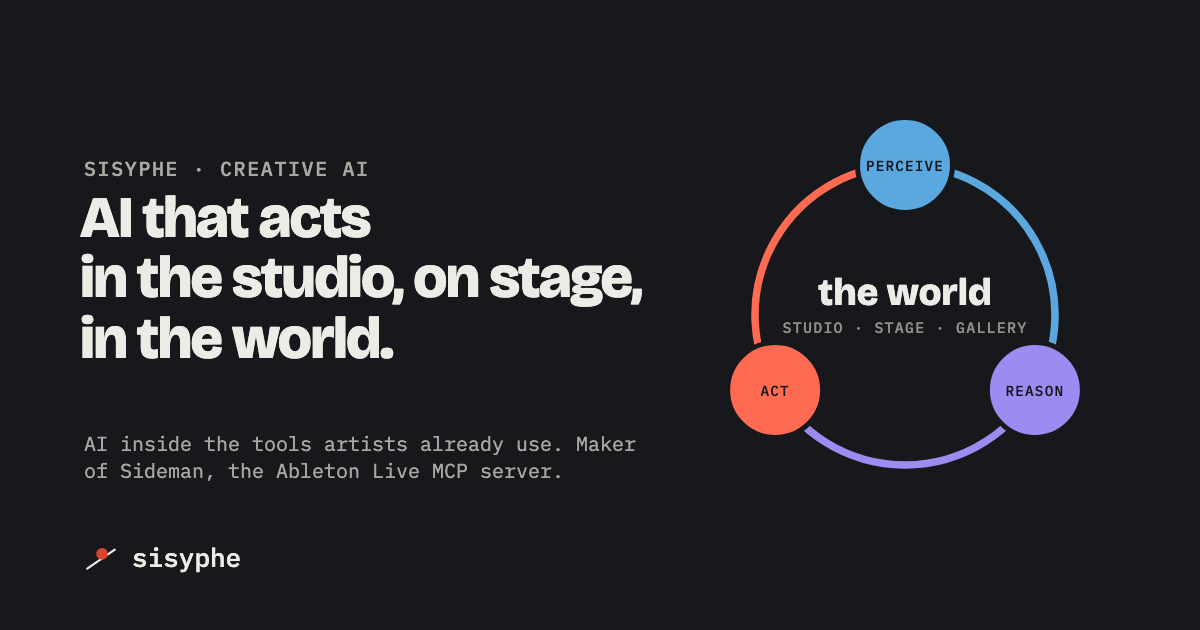
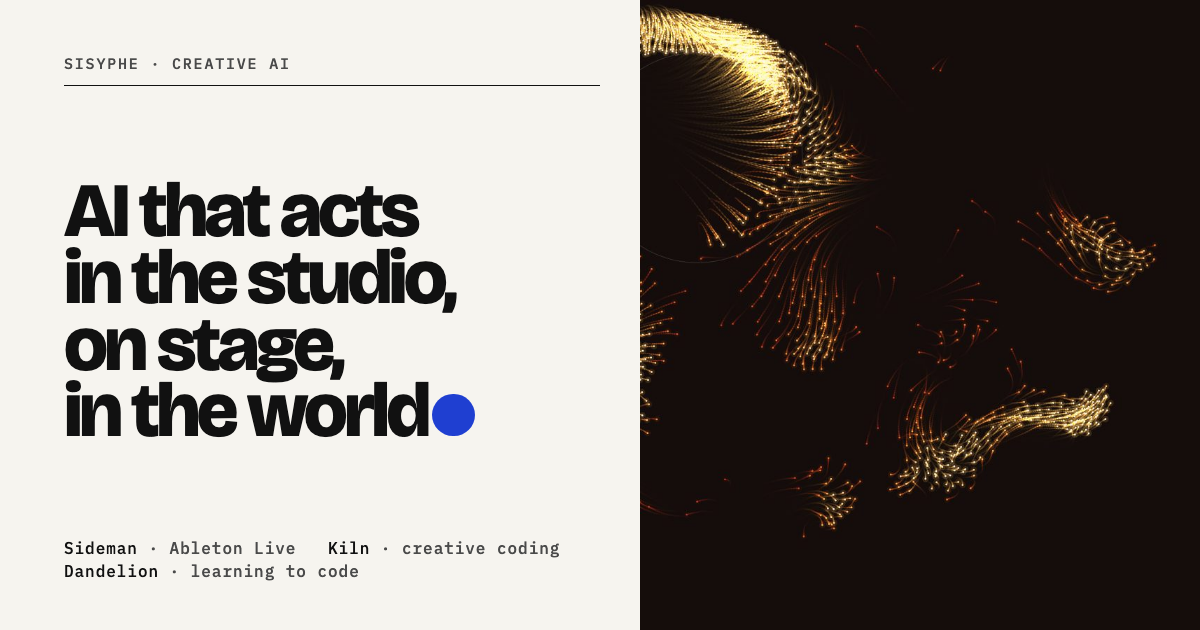
Home: closer without the rock metaphor, no client work, review fixes
- Closer: 'You keep the part that needs you.' The rock image needed the
  myth to make sense.
- Client work leaves the home page (no client permission asked); Kiln's
  flock spans the wall, Sideman and Dandelion follow at equal size.
- Review: home rules scoped under .gallery-home; dark-theme accent lifted
  to #3B5BFF (3.5:1) and focus rings use --accent-ink; a Pause button for
  the loop (WCAG 2.2.2); playback starts from script only, so no-JS and
  reduced motion show the poster; Bootstrap's .visually-hidden replaces
  a local .sr-only; share image redone on paper with the three products.

diff --git a/theme.scss b/theme.scss
@@ -307,7 +307,6 @@ div.sourceCode, pre.sourceCode { background: var(--panel) !important; }
 // ---------------------------------------------------------------------------
 // Home, concept 2: "gallery wall". Work first, catalogue devices, one Klein-blue rock.
 // ---------------------------------------------------------------------------
-.sr-only { position: absolute; width: 1px; height: 1px; padding: 0; margin: -1px; overflow: hidden; clip: rect(0, 0, 0, 0); white-space: nowrap; border: 0; }
 .gallery-home {
   #quarto-content { display: block; padding-left: clamp(16px, 3vw, 40px); padding-right: clamp(16px, 3vw, 40px); }
   #quarto-content > main.content { grid-column: 1 / -1; width: 100%; max-width: 1360px; margin: 0 auto; min-width: 0; }
@@ -319,110 +318,108 @@ $gw-head: $headings-font-family;
 @keyframes gw-roll { from { transform: translateX(-2.4em) rotate(-200deg); opacity: 0; } 30% { opacity: 1; } to { transform: none; opacity: 1; } }
 @keyframes gw-fade { from { opacity: 0; transform: translateY(18px); } to { opacity: 1; transform: none; } }
 
-// Masthead: index line, a headline set to the measure of the wall, the lede tucked under its short last line.
-.mast { display: grid; grid-template-columns: repeat(12, minmax(0, 1fr)); column-gap: clamp(12px, 1.8vw, 24px); padding: clamp(0.4rem, 1.2vw, 1rem) 0 clamp(1.6rem, 3vw, 2.4rem); }
-.mast-index { grid-column: 1 / -1; display: flex; justify-content: space-between; gap: 1rem; flex-wrap: wrap;
-  font-family: $gw-mono; font-size: 0.74rem; letter-spacing: 0.1em; text-transform: uppercase; color: var(--ink-2);
-  padding-bottom: 0.7rem; border-bottom: 1px solid var(--ink); margin-bottom: clamp(1.2rem, 2.6vw, 2.2rem);
-  .mast-idx { color: var(--ink-3); a { color: var(--ink); text-decoration: none; margin-left: 1.1em; &:hover { color: var(--accent-ink); } } } }
-.mast-h1 { grid-column: 1 / -1; grid-row: 2; margin: 0; font-weight: 800; letter-spacing: -0.05em; line-height: 0.86;
-  font-size: clamp(2.5rem, calc((100vw - 2 * clamp(16px, 3vw, 40px)) / 8.85), 9.7rem); text-wrap: initial; max-width: none;
-  .ln { display: block; animation: gw-rise 0.9s cubic-bezier(.2,.7,.2,1) both; }
-  .ln:nth-child(2) { animation-delay: 0.08s; } .ln:nth-child(3) { animation-delay: 0.16s; }
-  .rock { display: inline-block; width: 0.56em; height: 0.56em; border-radius: 50%; background: var(--accent); margin-left: 0.07em; vertical-align: baseline;
-    animation: gw-roll 1.5s cubic-bezier(.16,.8,.24,1) 0.35s both; } }
-.mast-lede { grid-column: 9 / -1; grid-row: 2; align-self: start; position: relative; padding-top: 0.5rem;
-  p { margin: 0; font-size: clamp(0.98rem, 1.15vw, 1.1rem); line-height: 1.42; color: var(--ink-2); max-width: 40ch; } }
-.mast-links { grid-column: 9 / -1; grid-row: 2; align-self: end; margin: 0 0 0.35rem; font-weight: 600; display: flex; gap: 1.4rem; flex-wrap: wrap; animation: gw-fade 0.9s ease-out 0.5s both;
-    a { color: var(--ink); text-decoration: none; border-bottom: 1px solid var(--ink); padding-bottom: 1px; &:hover { color: var(--accent-ink); border-color: var(--accent-ink); } } }
-.mast-lede { animation: gw-fade 0.9s ease-out 0.4s both; }
+.gallery-home {
+  // Masthead: index line, a headline set to the measure of the wall, the lede tucked under its short last line.
+  .mast { display: grid; grid-template-columns: repeat(12, minmax(0, 1fr)); column-gap: clamp(12px, 1.8vw, 24px); padding: clamp(0.4rem, 1.2vw, 1rem) 0 clamp(1.6rem, 3vw, 2.4rem); }
+  .mast-index { grid-column: 1 / -1; display: flex; justify-content: space-between; gap: 1rem; flex-wrap: wrap;
+    font-family: $gw-mono; font-size: 0.74rem; letter-spacing: 0.1em; text-transform: uppercase; color: var(--ink-2);
+    padding-bottom: 0.7rem; border-bottom: 1px solid var(--ink); margin-bottom: clamp(1.2rem, 2.6vw, 2.2rem);
+    .mast-idx { color: var(--ink-3); a { color: var(--ink); text-decoration: none; margin-left: 1.1em; &:hover { color: var(--accent-ink); } } } }
+  .mast-h1 { grid-column: 1 / -1; grid-row: 2; margin: 0; font-weight: 800; letter-spacing: -0.05em; line-height: 0.86;
+    font-size: clamp(2.5rem, calc((100vw - 2 * clamp(16px, 3vw, 40px)) / 8.85), 9.7rem); text-wrap: initial; max-width: none;
+    .ln { display: block; animation: gw-rise 0.9s cubic-bezier(.2,.7,.2,1) both; }
+    .ln:nth-child(2) { animation-delay: 0.08s; } .ln:nth-child(3) { animation-delay: 0.16s; }
+    .rock { display: inline-block; width: 0.56em; height: 0.56em; border-radius: 50%; background: var(--accent); margin-left: 0.07em; vertical-align: baseline;
+      animation: gw-roll 1.5s cubic-bezier(.16,.8,.24,1) 0.35s both; } }
+  .mast-lede { grid-column: 9 / -1; grid-row: 2; align-self: start; position: relative; padding-top: 0.5rem; animation: gw-fade 0.9s ease-out 0.4s both;
+    p { margin: 0; font-size: clamp(0.98rem, 1.15vw, 1.1rem); line-height: 1.42; color: var(--ink-2); max-width: 40ch; } }
+  .mast-links { grid-column: 9 / -1; grid-row: 2; align-self: end; margin: 0 0 0.35rem; font-weight: 600; display: flex; gap: 1.4rem; flex-wrap: wrap; animation: gw-fade 0.9s ease-out 0.5s both;
+      a { color: var(--ink); text-decoration: none; border-bottom: 1px solid var(--ink); padding-bottom: 1px; &:hover { color: var(--accent-ink); border-color: var(--accent-ink); } } }
 
-// The wall: twelve columns, works hung at different sizes, a mono label under each.
-.wall { display: grid; grid-template-columns: repeat(12, minmax(0, 1fr)); column-gap: clamp(12px, 1.8vw, 24px); row-gap: clamp(2rem, 4vw, 3.6rem); margin: 0 0 clamp(3rem, 7vw, 6rem); }
-.work { display: flex; flex-direction: column; text-decoration: none !important; color: var(--ink) !important; min-width: 0;
-  animation: gw-fade 0.9s ease-out both;
-  .media { position: relative; overflow: hidden; background: #120c0a; }
-  video, img { display: block; width: 100%; height: 100%; object-fit: cover; transition: transform 0.9s cubic-bezier(.2,.7,.2,1); }
-  &:hover video, &:hover img { transform: scale(1.025); }
-  &:focus-visible { outline: 2px solid var(--accent); outline-offset: 6px; } }
-.cap { display: flex; align-items: baseline; gap: 0.9rem; padding-top: 0.65rem; border-top: 1px solid var(--rule); margin-top: 0.7rem;
-  font-family: $gw-mono; font-size: 0.76rem; letter-spacing: 0.02em; color: var(--ink-2); line-height: 1.4;
-  .n { color: var(--ink-3); flex: none; }
-  .t { flex: 1; min-width: 0; b { font-weight: 500; color: var(--ink); } }
-  .s { flex: none; text-transform: uppercase; letter-spacing: 0.08em; font-size: 0.68rem; color: var(--ink-3); }
-  .t::after { content: " →"; opacity: 0; transition: opacity 0.2s; } }
-a.work:hover .cap .t::after, a.work:focus-visible .cap .t::after { opacity: 1; }
-a.work:hover .cap { border-top-color: var(--ink); }
+  // The wall: twelve columns, works hung at different sizes, a mono label under each.
+  .wall { display: grid; grid-template-columns: repeat(12, minmax(0, 1fr)); column-gap: clamp(12px, 1.8vw, 24px); row-gap: clamp(2rem, 4vw, 3.6rem); margin: 0 0 clamp(3rem, 7vw, 6rem); }
+  .work { display: flex; flex-direction: column; text-decoration: none !important; color: var(--ink) !important; min-width: 0;
+    animation: gw-fade 0.9s ease-out both;
+    .media { position: relative; overflow: hidden; background: #120c0a; } // the flock video's own ground, so the tile edge disappears
+    video, img { display: block; width: 100%; height: 100%; object-fit: cover; transition: transform 0.9s cubic-bezier(.2,.7,.2,1); }
+    &:hover video, &:hover img { transform: scale(1.025); }
+    &:focus-visible { outline: 2px solid var(--accent-ink); outline-offset: 6px; } }
+  // A tile with a pause button: the link and the button are siblings (a button can't sit inside a link).
+  .work-link { display: flex; flex-direction: column; flex: 1; color: var(--ink) !important; text-decoration: none !important;
+    &:focus-visible { outline: 2px solid var(--accent-ink); outline-offset: 6px; } }
+  .w-flock { position: relative; }
+  .vid-toggle { position: absolute; top: 12px; right: 12px; z-index: 2; font: 600 0.72rem/1 $gw-mono; letter-spacing: 0.08em; text-transform: uppercase;
+    padding: 0.45rem 0.7rem; border-radius: 999px; border: 1px solid rgba(255,255,255,0.45); background: rgba(0,0,0,0.45); color: #fff; cursor: pointer;
+    &:hover { background: rgba(0,0,0,0.7); } &:focus-visible { outline: 2px solid #fff; outline-offset: 2px; } }
+  .cap { display: flex; align-items: baseline; gap: 0.9rem; padding-top: 0.65rem; border-top: 1px solid var(--rule); margin-top: 0.7rem;
+    font-family: $gw-mono; font-size: 0.76rem; letter-spacing: 0.02em; color: var(--ink-2); line-height: 1.4;
+    .n { color: var(--ink-3); flex: none; }
+    .t { flex: 1; min-width: 0; b { font-weight: 500; color: var(--ink); } }
+    .s { flex: none; text-transform: uppercase; letter-spacing: 0.08em; font-size: 0.68rem; color: var(--ink-3); }
+    .t::after { content: " →"; opacity: 0; transition: opacity 0.2s; } }
+  a.work:hover .cap .t::after, a.work:focus-visible .cap .t::after, .work-link:hover .cap .t::after, .work-link:focus-visible .cap .t::after { opacity: 1; }
+  a.work:hover .cap, .work-link:hover .cap { border-top-color: var(--ink); }
 
-.w-flock { grid-column: 1 / span 8; .media { aspect-ratio: 16 / 9; } animation-delay: 0.45s; }
-// Screens are matted like prints, so a UI capture hangs as a work and not as a thumbnail.
-.work.framed .media { background: var(--panel-2); padding: clamp(14px, 2.2vw, 34px); }
-.work.framed img { height: auto; box-shadow: 0 1px 0 rgba(0,0,0,0.06), 0 12px 28px -14px rgba(0,0,0,0.35); }
-.w-sideman { grid-column: 1 / span 6; img { aspect-ratio: 16 / 10; object-position: top left; } }
-.w-dandelion { grid-column: 7 / -1; img { aspect-ratio: 16 / 10; object-position: top left; } }
-.w-clients { grid-column: 9 / -1; align-self: end;
-  .cap.top { border-top: 1px solid var(--ink); margin-top: 0; margin-bottom: 0.4rem; }
-  ul { list-style: none; margin: 0; padding: 0; }
-  li { display: flex; flex-direction: column; padding: 0.75rem 0; border-bottom: 1px solid var(--rule);
-    b { font-family: $gw-head; font-weight: 700; font-size: clamp(1.15rem, 1.6vw, 1.45rem); letter-spacing: -0.02em; line-height: 1.1; }
-    span { font-family: $gw-mono; font-size: 0.74rem; color: var(--ink-2); margin-top: 0.2rem; } }
-  .more-lnk { display: inline-block; margin-top: 0.9rem; font-weight: 600; text-decoration: none; border-bottom: 1px solid var(--ink); color: var(--ink); &:hover { color: var(--accent-ink); border-color: var(--accent-ink); } } }
+  .w-flock { grid-column: 1 / -1; .media { aspect-ratio: 21 / 9; } animation-delay: 0.45s; }
+  // Screens are matted like prints, so a UI capture hangs as a work and not as a thumbnail.
+  .work.framed .media { background: var(--panel-2); padding: clamp(14px, 2.2vw, 34px); }
+  .work.framed img { height: auto; box-shadow: 0 1px 0 rgba(0,0,0,0.06), 0 12px 28px -14px rgba(0,0,0,0.35); }
+  .w-sideman { grid-column: 1 / span 6; img { aspect-ratio: 16 / 10; object-position: top left; } }
+  .w-dandelion { grid-column: 7 / -1; img { aspect-ratio: 16 / 10; object-position: top left; } }
 
-// The loop, said once, in type.
-.loopline { border-top: 1px solid var(--ink); padding: clamp(1.6rem, 3vw, 2.4rem) 0 clamp(3rem, 7vw, 6rem);
-  display: grid; grid-template-columns: repeat(12, minmax(0, 1fr)); column-gap: clamp(12px, 1.8vw, 24px); row-gap: 1rem;
-  .lbl { grid-column: 1 / span 3; font-family: $gw-mono; font-size: 0.74rem; letter-spacing: 0.1em; text-transform: uppercase; color: var(--ink-3); padding-top: 0.6rem; margin: 0;
-    i { font-style: normal; display: inline-block; width: 0.55em; height: 0.55em; border-radius: 50%; margin: 0 0.35em 0 0.9em; }
-    i.perceive { background: var(--perceive); } i.reason { background: var(--reason); } i.act { background: var(--act); } }
-  .loopfig { grid-column: 1 / span 4; margin: 0; align-self: center;
-    .lbl { padding-top: 0; margin-bottom: 0.4rem; }
-    .loop { max-width: 320px; } }
-  p.stmt { grid-column: 6 / -1; align-self: center; margin: 0; font-family: $gw-head; font-weight: 700; font-size: clamp(1.55rem, 3.4vw, 3.1rem); line-height: 1.06; letter-spacing: -0.03em; max-width: 26ch; text-wrap: balance; }
-  .v { font-weight: 800; text-decoration: underline; text-decoration-thickness: 0.12em; text-underline-offset: 0.12em; text-decoration-skip-ink: none; }
-  .v.perceive { text-decoration-color: var(--perceive); } .v.reason { text-decoration-color: var(--reason); } .v.act { text-decoration-color: var(--act); } }
+  // The loop, said once, in type.
+  .loopline { border-top: 1px solid var(--ink); padding: clamp(1.6rem, 3vw, 2.4rem) 0 clamp(3rem, 7vw, 6rem);
+    display: grid; grid-template-columns: repeat(12, minmax(0, 1fr)); column-gap: clamp(12px, 1.8vw, 24px); row-gap: 1rem;
+    .lbl { grid-column: 1 / span 3; font-family: $gw-mono; font-size: 0.74rem; letter-spacing: 0.1em; text-transform: uppercase; color: var(--ink-3); padding-top: 0.6rem; margin: 0;
+      i { font-style: normal; display: inline-block; width: 0.55em; height: 0.55em; border-radius: 50%; margin: 0 0.35em 0 0.9em; }
+      i.perceive { background: var(--perceive); } i.reason { background: var(--reason); } i.act { background: var(--act); } }
+    .loopfig { grid-column: 1 / span 4; margin: 0; align-self: center;
+      .lbl { padding-top: 0; margin-bottom: 0.4rem; }
+      .loop { max-width: 320px; } }
+    p.stmt { grid-column: 6 / -1; align-self: center; margin: 0; font-family: $gw-head; font-weight: 700; font-size: clamp(1.55rem, 3.4vw, 3.1rem); line-height: 1.06; letter-spacing: -0.03em; max-width: 26ch; text-wrap: balance; }
+    .v { font-weight: 800; text-decoration: underline; text-decoration-thickness: 0.12em; text-underline-offset: 0.12em; text-decoration-skip-ink: none; }
+    .v.perceive { text-decoration-color: var(--perceive); } .v.reason { text-decoration-color: var(--reason); } .v.act { text-decoration-color: var(--act); } }
 
-// Closer: the rock line, the call to action, the course in one line.
-.closer { display: grid; grid-template-columns: repeat(12, minmax(0, 1fr)); column-gap: clamp(12px, 1.8vw, 24px); row-gap: 2rem; border-top: 1px solid var(--ink); padding-top: clamp(1.6rem, 3vw, 2.4rem); margin-bottom: clamp(2.5rem, 5vw, 4rem);
-  .closer-rock { grid-column: 1 / span 7;
-    .big { font-family: $gw-head; font-weight: 800; font-size: clamp(2rem, 4.6vw, 4.2rem); line-height: 0.95; letter-spacing: -0.045em; margin: 0 0 1rem; max-width: 14ch; }
-    .small { color: var(--ink-2); font-size: 1.1rem; margin: 0; max-width: 40ch; } }
-  .closer-cta { grid-column: 9 / -1; align-self: end;
-    > p:first-child { margin: 0 0 1rem; font-size: 1.05rem; }
-    .btn-row { margin: 0 0 1rem; }
-    .addr { font-size: 0.88rem; color: var(--ink-2); margin: 0;
-      code { background: transparent; color: var(--ink); padding: 0; user-select: all; }
-      .copy-email { margin-left: 0.4rem; font: 600 0.78rem/1 $font-family-sans-serif; padding: 0.35rem 0.7rem; border-radius: 5px; border: 1px solid var(--rule); background: var(--ground); color: var(--ink); cursor: pointer; &:hover { border-color: var(--ink-3); } } } }
-  .course { grid-column: 1 / -1; margin: 0; padding-top: 1rem; border-top: 1px solid var(--rule); color: var(--ink-2); font-size: 0.95rem;
-    .lbl { font-family: $gw-mono; font-size: 0.72rem; letter-spacing: 0.1em; text-transform: uppercase; color: var(--ink-3); margin-right: 1rem; }
-    a { font-weight: 600; white-space: nowrap; } } }
+  // Closer: the rock line, the call to action, the course in one line.
+  .closer { display: grid; grid-template-columns: repeat(12, minmax(0, 1fr)); column-gap: clamp(12px, 1.8vw, 24px); row-gap: 2rem; border-top: 1px solid var(--ink); padding-top: clamp(1.6rem, 3vw, 2.4rem); margin-bottom: clamp(2.5rem, 5vw, 4rem);
+    .closer-rock { grid-column: 1 / span 7;
+      .big { font-family: $gw-head; font-weight: 800; font-size: clamp(2rem, 4.6vw, 4.2rem); line-height: 0.95; letter-spacing: -0.045em; margin: 0 0 1rem; max-width: 14ch; }
+      .small { color: var(--ink-2); font-size: 1.1rem; margin: 0; max-width: 40ch; } }
+    .closer-cta { grid-column: 9 / -1; align-self: end;
+      > p:first-child { margin: 0 0 1rem; font-size: 1.05rem; }
+      .btn-row { margin: 0 0 1rem; }
+      .addr { font-size: 0.88rem; color: var(--ink-2); margin: 0;
+        code { background: transparent; color: var(--ink); padding: 0; user-select: all; }
+        .copy-email { margin-left: 0.4rem; font: 600 0.78rem/1 $font-family-sans-serif; padding: 0.35rem 0.7rem; border-radius: 5px; border: 1px solid var(--rule); background: var(--ground); color: var(--ink); cursor: pointer; &:hover { border-color: var(--ink-3); } } } }
+    .course { grid-column: 1 / -1; margin: 0; padding-top: 1rem; border-top: 1px solid var(--rule); color: var(--ink-2); font-size: 0.95rem;
+      .lbl { font-family: $gw-mono; font-size: 0.72rem; letter-spacing: 0.1em; text-transform: uppercase; color: var(--ink-3); margin-right: 1rem; }
+      a { font-weight: 600; white-space: nowrap; } } }
 
-// Tablet: the lede drops under the headline; the second row re-hangs on two columns.
-// Below 1280px the gaps beside the short headline lines get too narrow for the lede.
-@media (max-width: 1279.98px) {
-  .mast-lede { grid-column: 1 / span 7; grid-row: 3; margin-top: 1.6rem; padding-top: 0; }
-  .mast-links { grid-column: 9 / -1; grid-row: 3; align-self: end; margin: 0; }
-}
-@media (max-width: 1000px) {
-  .mast-lede { grid-column: 1 / span 9; }
-  .mast-links { grid-column: 1 / span 9; grid-row: 4; margin-top: 1rem; }
-  .loopline .loopfig, .loopline p.stmt { grid-column: 1 / -1; }
-  .loopline .loopfig .loop { max-width: 280px; margin: 0 auto; }
-  .w-flock { grid-column: 1 / -1; }
-  .w-clients { grid-column: 1 / -1; ul { display: grid; grid-template-columns: repeat(3, minmax(0, 1fr)); column-gap: 1.2rem; } }
-  .closer .closer-rock, .closer .closer-cta { grid-column: 1 / -1; }
-}
-// Phone: one column, the loops keep their scale, the screens keep their mats.
-@media (max-width: 640px) {
-  .mast-index .mast-idx { display: none; }
-  .mast-lede, .mast-links { grid-column: 1 / -1; }
-  .mast-h1 { font-size: clamp(2.5rem, 15.5vw, 4.5rem); line-height: 0.9; }
-  .mast-h1 .ln:nth-child(2) { white-space: normal; }
-  .wall { row-gap: 2rem; }
-  .w-flock, .w-sideman, .w-dandelion, .w-clients { grid-column: 1 / -1; margin-top: 0; }
-  .w-clients ul { display: block; }
-  .cap .s { display: none; }
-}
-@media (prefers-reduced-motion: reduce) {
-  .mast-h1 .ln, .mast-h1 .rock, .mast-lede, .mast-links, .work { animation: none; }
-  .work video, .work img { transition: none; }
+  // Tablet: the lede drops under the headline; the second row re-hangs on two columns.
+  // Below 1280px the gaps beside the short headline lines get too narrow for the lede.
+  @media (max-width: 1279.98px) {
+    .mast-lede { grid-column: 1 / span 7; grid-row: 3; margin-top: 1.6rem; padding-top: 0; }
+    .mast-links { grid-column: 9 / -1; grid-row: 3; align-self: end; margin: 0; }
+  }
+  @media (max-width: 1000px) {
+    .mast-lede { grid-column: 1 / span 9; }
+    .mast-links { grid-column: 1 / span 9; grid-row: 4; margin-top: 1rem; }
+    .loopline .loopfig, .loopline p.stmt { grid-column: 1 / -1; }
+    .loopline .loopfig .loop { max-width: 280px; margin: 0 auto; }
+    .w-flock .media { aspect-ratio: 16 / 9; }
+    .closer .closer-rock, .closer .closer-cta { grid-column: 1 / -1; }
+  }
+  // Phone: one column, the loops keep their scale, the screens keep their mats.
+  @media (max-width: 640px) {
+    .mast-index .mast-idx { display: none; }
+    .mast-lede, .mast-links { grid-column: 1 / -1; }
+    .mast-h1 { font-size: clamp(2.5rem, 15.5vw, 4.5rem); line-height: 0.9; }
+    .wall { row-gap: 2rem; }
+    .w-flock, .w-sideman, .w-dandelion { grid-column: 1 / -1; margin-top: 0; }
+    .cap .s { display: none; }
+  }
+  @media (prefers-reduced-motion: reduce) {
+    .mast-h1 .ln, .mast-h1 .rock, .mast-lede, .mast-links, .work { animation: none; }
+    .work video, .work img { transition: none; }
+  }
 }

diff --git a/theme-dark.scss b/theme-dark.scss
@@ -10,7 +10,7 @@ $perceive: #5BA8E0;
 $reason:   #9A8CF0;
 $act:      #FF6B52;
 $on-layer: #17181B;
-$accent:   #1F3FD1;
+$accent:   #3B5BFF;  // Klein blue lifted for dark ground: 3.5:1 on ground, white text 5.1:1
 $accent-ink: #9AABFF;
 $on-accent: #FFFFFF;
 /*-- scss:rules --*/
